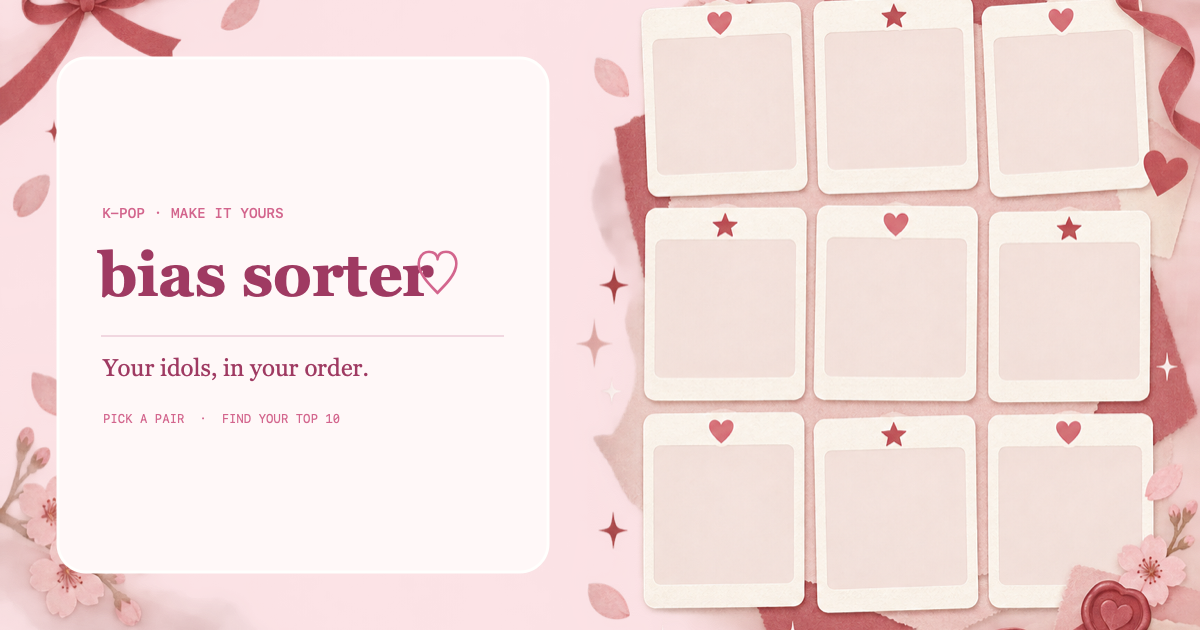
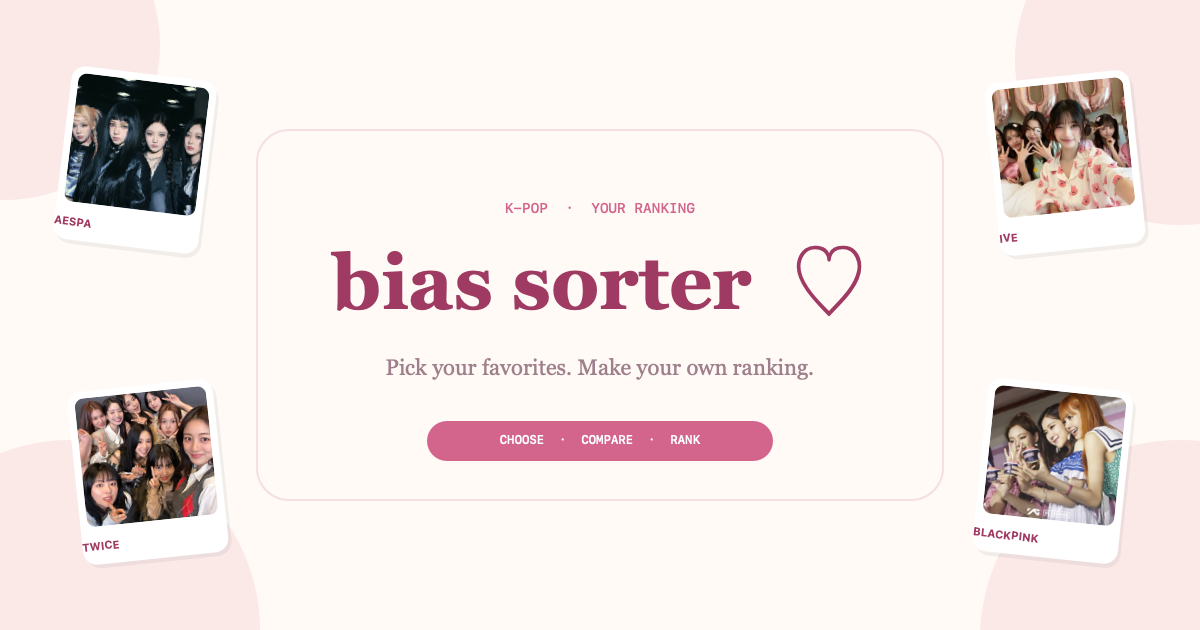
Replace empty preview cards with K-pop photos

diff --git a/scripts/make_social_preview.swift b/scripts/make_social_preview.swift
@@ -2,9 +2,13 @@ import AppKit
 import Foundation
 
 let root = URL(fileURLWithPath: CommandLine.arguments[1])
-let sourceURL = root.appendingPathComponent("src/assets/social/share-art-source.png")
 let outputURL = root.appendingPathComponent("og-image.png")
-guard let source = NSImage(contentsOf: sourceURL) else { fatalError("Could not read social artwork") }
+let photoPaths = [
+  ("AESPA", "c4ff70b0f93d673c.jpg"),
+  ("IVE", "2bab0db9fb7f28dd.jpg"),
+  ("TWICE", "78fddd9470f82079.jpg"),
+  ("BLACKPINK", "2c0cbe9584a67981.jpg"),
+]
 let size = NSSize(width: 1200, height: 630)
 guard let rep = NSBitmapImageRep(
   bitmapDataPlanes: nil, pixelsWide: 1200, pixelsHigh: 630,
@@ -14,34 +18,77 @@ guard let rep = NSBitmapImageRep(
 NSGraphicsContext.saveGraphicsState()
 NSGraphicsContext.current = graphics
 graphics.imageInterpolation = .high
-NSColor(calibratedRed: 0.98, green: 0.86, blue: 0.88, alpha: 1).setFill()
-NSBezierPath(rect: NSRect(x: 0, y: 0, width: 1200, height: 630)).fill()
-source.draw(in: NSRect(x: 0, y: 0, width: 1200, height: 630),
-            from: NSRect(x: 0, y: 109, width: 1536, height: 806),
-            operation: .sourceOver, fraction: 1)
-
-let panel = NSBezierPath(roundedRect: NSRect(x: 58, y: 58, width: 490, height: 514), xRadius: 28, yRadius: 28)
-NSColor(calibratedRed: 1, green: 0.965, blue: 0.965, alpha: 1).setFill()
-panel.fill()
-NSColor(calibratedRed: 1, green: 1, blue: 0.99, alpha: 1).setStroke()
-panel.lineWidth = 3
-panel.stroke()
-
-func draw(_ string: String, x: CGFloat, y: CGFloat, font: NSFont, color: NSColor) {
-  let attrs: [NSAttributedString.Key: Any] = [.font: font, .foregroundColor: color]
-  string.draw(at: NSPoint(x: x, y: y), withAttributes: attrs)
-}
+let paper = NSColor(calibratedRed: 1, green: 0.973, blue: 0.957, alpha: 1)
+let blush = NSColor(calibratedRed: 0.98, green: 0.89, blue: 0.89, alpha: 1)
 let berry = NSColor(calibratedRed: 0.55, green: 0.15, blue: 0.31, alpha: 1)
 let pink = NSColor(calibratedRed: 0.78, green: 0.30, blue: 0.48, alpha: 1)
-draw("K-POP · MAKE IT YOURS", x: 102, y: 409, font: NSFont.monospacedSystemFont(ofSize: 14, weight: .medium), color: pink)
-draw("bias sorter", x: 98, y: 321, font: NSFont(name: "Georgia-Bold", size: 61) ?? .boldSystemFont(ofSize: 61), color: berry)
-draw("♡", x: 414, y: 330, font: NSFont(name: "Georgia", size: 47) ?? .systemFont(ofSize: 47), color: pink)
-let rule = NSBezierPath()
-rule.move(to: NSPoint(x: 101, y: 294)); rule.line(to: NSPoint(x: 504, y: 294))
-NSColor(calibratedRed: 0.91, green: 0.75, blue: 0.81, alpha: 1).setStroke()
-rule.lineWidth = 1.5; rule.stroke()
-draw("Your idols, in your order.", x: 103, y: 249, font: NSFont(name: "Georgia", size: 24) ?? .systemFont(ofSize: 24), color: berry)
-draw("PICK A PAIR  ·  FIND YOUR TOP 10", x: 103, y: 204, font: NSFont.monospacedSystemFont(ofSize: 12, weight: .regular), color: pink)
+let muted = NSColor(calibratedRed: 0.55, green: 0.42, blue: 0.47, alpha: 1)
+paper.setFill()
+NSBezierPath(rect: NSRect(origin: .zero, size: size)).fill()
+
+// Soft color blooms keep the layout warm while leaving breathing room.
+for (x, y, diameter, color) in [
+  (-150.0, 430.0, 310.0, blush), (1015.0, 405.0, 330.0, blush),
+  (-120.0, -190.0, 380.0, blush), (980.0, -210.0, 400.0, blush)
+] {
+  color.setFill()
+  NSBezierPath(ovalIn: NSRect(x: x, y: y, width: diameter, height: diameter)).fill()
+}
+
+func drawText(_ value: String, at point: NSPoint, font: NSFont, color: NSColor) {
+  value.draw(at: point, withAttributes: [.font: font, .foregroundColor: color])
+}
+func centerText(_ value: String, y: CGFloat, font: NSFont, color: NSColor) {
+  let attributes: [NSAttributedString.Key: Any] = [.font: font, .foregroundColor: color]
+  let width = (value as NSString).size(withAttributes: attributes).width
+  value.draw(at: NSPoint(x: (1200 - width) / 2, y: y), withAttributes: attributes)
+}
+func rounded(_ rect: NSRect, radius: CGFloat) -> NSBezierPath {
+  NSBezierPath(roundedRect: rect, xRadius: radius, yRadius: radius)
+}
+
+// A quiet central title block frames the four real group photos.
+let titlePanel = NSRect(x: 257, y: 130, width: 686, height: 370)
+paper.setFill(); rounded(titlePanel, radius: 32).fill()
+NSColor(calibratedRed: 0.95, green: 0.84, blue: 0.87, alpha: 1).setStroke()
+let panelOutline = rounded(titlePanel, radius: 32); panelOutline.lineWidth = 2; panelOutline.stroke()
+centerText("K-POP  ·  YOUR RANKING", y: 414, font: .monospacedSystemFont(ofSize: 14, weight: .medium), color: pink)
+centerText("bias sorter  ♡", y: 304, font: NSFont(name: "Georgia-Bold", size: 76) ?? .boldSystemFont(ofSize: 76), color: berry)
+centerText("Pick your favorites. Make your own ranking.", y: 250, font: NSFont(name: "Georgia", size: 22) ?? .systemFont(ofSize: 22), color: muted)
+let pill = NSRect(x: 427, y: 169, width: 346, height: 40)
+pink.setFill(); rounded(pill, radius: 20).fill()
+centerText("CHOOSE  ·  COMPARE  ·  RANK", y: 183, font: .monospacedSystemFont(ofSize: 12, weight: .medium), color: .white)
+
+func drawPhotoCard(name: String, file: String, x: CGFloat, y: CGFloat, angle: CGFloat) {
+  let cardSize = NSSize(width: 146, height: 174)
+  let cardRect = NSRect(origin: .zero, size: cardSize)
+  guard let image = NSImage(contentsOf: root.appendingPathComponent("src/assets/idols/" + file)) else { fatalError("Missing photo: \(file)") }
+  graphics.saveGraphicsState()
+  let transform = NSAffineTransform()
+  transform.translateX(by: x + cardSize.width / 2, yBy: y + cardSize.height / 2)
+  transform.rotate(byDegrees: angle)
+  transform.translateX(by: -cardSize.width / 2, yBy: -cardSize.height / 2)
+  transform.concat()
+  NSColor(calibratedWhite: 0.4, alpha: 0.10).setFill()
+  rounded(NSRect(x: 3, y: -4, width: cardSize.width, height: cardSize.height), radius: 15).fill()
+  NSColor.white.setFill(); rounded(cardRect, radius: 14).fill()
+  let photoRect = NSRect(x: 7, y: 38, width: 132, height: 129)
+  graphics.saveGraphicsState()
+  rounded(photoRect, radius: 9).addClip()
+  let sourceSize = image.size
+  let factor = max(photoRect.width / sourceSize.width, photoRect.height / sourceSize.height)
+  let cropWidth = photoRect.width / factor, cropHeight = photoRect.height / factor
+  let crop = NSRect(x: (sourceSize.width - cropWidth) / 2, y: (sourceSize.height - cropHeight) / 2, width: cropWidth, height: cropHeight)
+  image.draw(in: photoRect, from: crop, operation: .copy, fraction: 1)
+  graphics.restoreGraphicsState()
+  drawText(name, at: NSPoint(x: 0, y: 12), font: .systemFont(ofSize: 11, weight: .bold), color: berry)
+  graphics.restoreGraphicsState()
+}
+
+drawPhotoCard(name: photoPaths[0].0, file: photoPaths[0].1, x: 62, y: 383, angle: -7)
+drawPhotoCard(name: photoPaths[1].0, file: photoPaths[1].1, x: 992, y: 380, angle: 6)
+drawPhotoCard(name: photoPaths[2].0, file: photoPaths[2].1, x: 75, y: 71, angle: 6)
+drawPhotoCard(name: photoPaths[3].0, file: photoPaths[3].1, x: 980, y: 72, angle: -6)
 NSGraphicsContext.restoreGraphicsState()
 guard let png = rep.representation(using: .png, properties: [:]) else { fatalError("Could not encode PNG") }
 try png.write(to: outputURL)

diff --git a/index.html b/index.html
@@ -17,7 +17,7 @@
     <meta property="og:image:type" content="image/png">
     <meta property="og:image:width" content="1200">
     <meta property="og:image:height" content="630">
-    <meta property="og:image:alt" content="A pink bias sorter ranking card with flower details and nine portrait slots.">
+    <meta property="og:image:alt" content="A pink bias sorter share card with photos of aespa, IVE, TWICE, and BLACKPINK.">
     <meta name="twitter:card" content="summary_large_image">
     <meta name="twitter:title" content="bias sorter ♡ · K-pop ranking">
     <meta name="twitter:description" content="Pick your favorites and make your K-pop ranking.">

diff --git a/README.md b/README.md
@@ -50,6 +50,6 @@ a fixed-width canvas layout so mobile and desktop downloads match. Run
 and canvas size limits.
 
 The root `og-image.png` is the 1200×630 Discord/Open Graph share thumbnail.
-Its source artwork lives at `src/assets/social/share-art-source.png`; regenerate
-the PNG after changing the artwork or overlay by running
+The image uses the existing local group photos. Regenerate it after changing
+the composition or photos by running
 `swift scripts/make_social_preview.swift .`.
